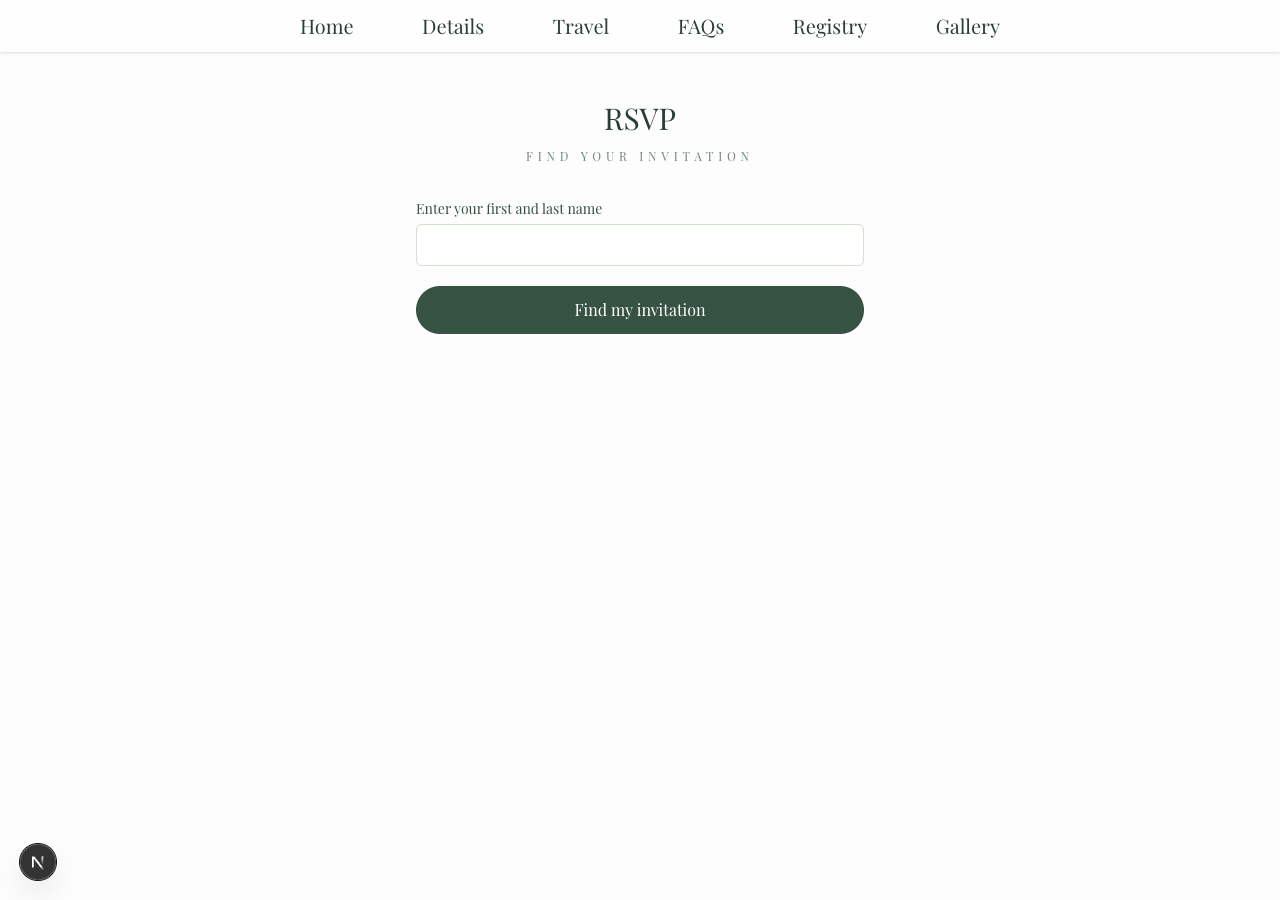
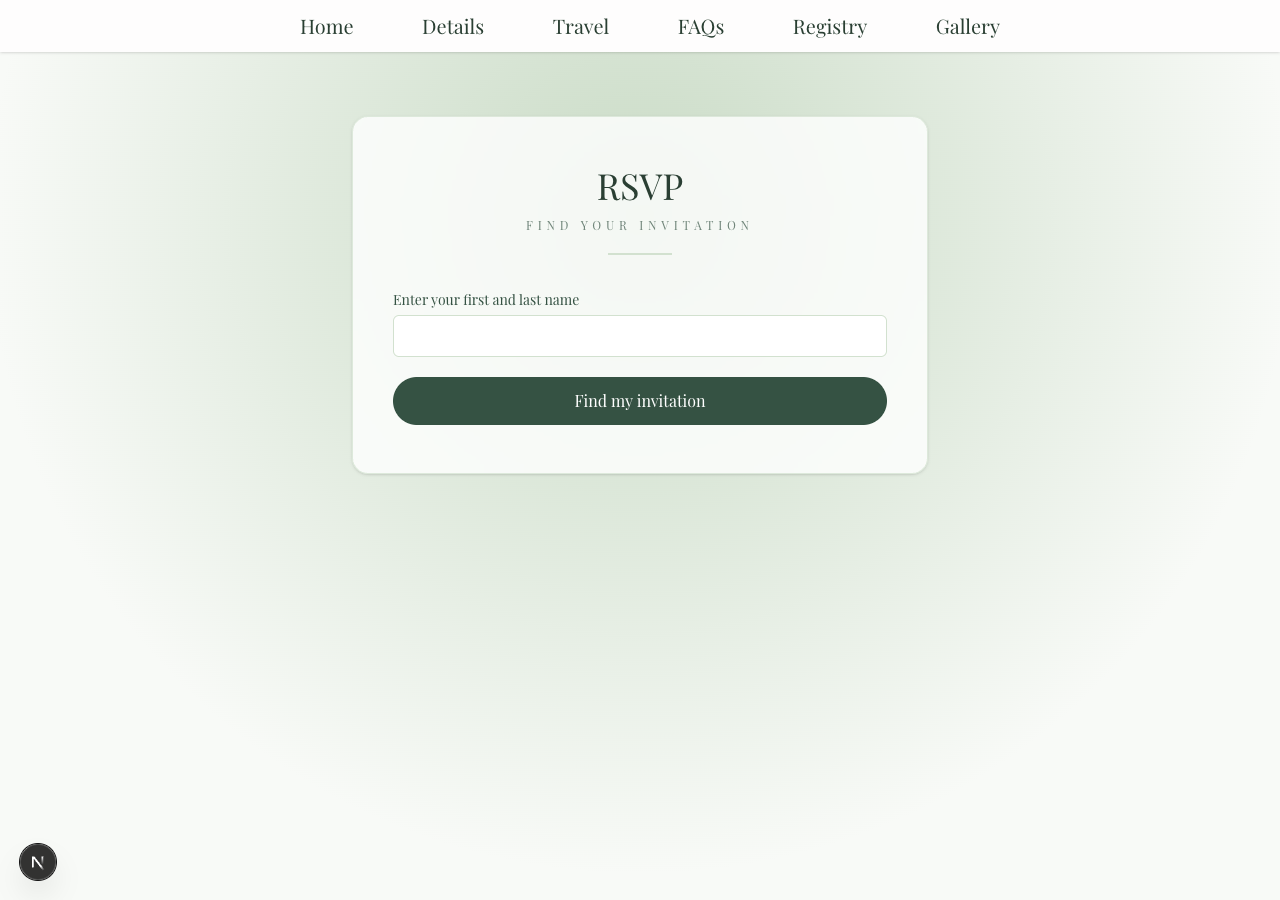
feat(rsvp): align the wizard with the site's visual language
The wizard rendered as a bare form on near-white while every other page
frames its content: the home page pairs a radial sage glow with rules and
a card-like rhythm. /rsvp used none of it, so it read as unfinished.

- Wrap the wizard in the existing GradientGlowDivider and lift it onto a
  white card with a sage hairline, so it sits on the page rather than
  dissolving into it.
- Extract StepHeading (title + eyebrow + short sage rule), replacing five
  hand-rolled and slightly inconsistent header blocks.
- Give the status toggle's focus ring an offset. It was ring-sage-700 on
  bg-sage-700 — applied, provably focus-visible, and invisible on the
  selected pill.

Copy: "Which one is you?" -> "Which group is yours?".

No new colors, fonts, or dependencies; no step numbers or progress bar,
which would advertise a sequence the one-page editor does not have.

Changed region(s): [[0.1875, 0.0311, 0.8125, 0.7156], [0.3125, 0.3111, 0.6875, 0.3733], [0.3125, 0.1867, 0.5312, 0.2489]]

diff --git a/src/components/rsvp/RsvpConfirmation.tsx b/src/components/rsvp/RsvpConfirmation.tsx
@@ -1,4 +1,5 @@
 import Link from 'next/link';
+import { StepHeading } from './StepHeading';
 import { GUEST_SOURCE, RSVP_STATUS } from '@/lib/enums';
 import type { PartyDetail, PartyDetailGuest } from '@/lib/rsvp/types';
 
@@ -42,9 +43,9 @@ export const RsvpConfirmation: React.FC<RsvpConfirmationProps> = ({ party, onEdi
   const hasAddedGuests = party.guests.some((guest) => guest.source === GUEST_SOURCE.guestAdded);
 
   return (
-    <section className='w-full max-w-md'>
-      <h1 className='text-center text-3xl text-sage-800'>Thank you!</h1>
-      <p className='mt-3 text-center text-sm text-sage-700'>
+    <section className='w-full'>
+      <StepHeading title='Thank you!' eyebrow='RSVP received' />
+      <p className='mt-5 text-center text-sm text-sage-700'>
         We have your RSVP for <span className='text-sage-800'>{party.displayName}</span>. You can
         come back and change it any time before the deadline.
       </p>

diff --git a/src/app/rsvp/page.tsx b/src/app/rsvp/page.tsx
@@ -1,14 +1,19 @@
 import { Header } from '@/components/Header';
+import { GradientGlowDivider } from '@/components/dividers';
 import { RsvpWizard } from '@/components/rsvp/RsvpWizard';
 
 const RsvpPage = () => {
   return (
-    <div className='min-h-screen flex flex-col bg-sage-50/30'>
+    <div className='min-h-screen flex flex-col bg-sage-50/70'>
       <Header />
 
-      <main className='flex-1 flex flex-col items-center px-6 py-12'>
-        <RsvpWizard />
-      </main>
+      <GradientGlowDivider className='flex-1 flex flex-col' glowPosition='top'>
+        <main className='flex-1 flex flex-col items-center px-5 py-12 sm:px-6 sm:py-16'>
+          <div className='w-full max-w-xl rounded-2xl border border-sage-200/70 bg-white/80 px-6 py-10 shadow-sm backdrop-blur-sm sm:px-10 sm:py-12'>
+            <RsvpWizard />
+          </div>
+        </main>
+      </GradientGlowDivider>
     </div>
   );
 };

diff --git a/src/components/rsvp/PartyForm.tsx b/src/components/rsvp/PartyForm.tsx
@@ -3,6 +3,7 @@
 import { useState } from 'react';
 import { AddedGuestFields } from './AddedGuestFields';
 import { GuestRsvpFields } from './GuestRsvpFields';
+import { StepHeading } from './StepHeading';
 import { buildSubmitBody, emptyNewGuestDraft, initialGuestDrafts } from '@/lib/rsvp/draft';
 import type { GuestDraft, NewGuestDraft, PartyDetail, SubmitRsvpBody } from '@/lib/rsvp/types';
 
@@ -55,11 +56,8 @@ export const PartyForm: React.FC<PartyFormProps> = ({
   };
 
   return (
-    <form className='w-full max-w-lg' onSubmit={handleSubmit}>
-      <h1 className='text-center text-3xl text-sage-800'>{party.displayName}</h1>
-      <p className='mt-3 text-center text-xs uppercase tracking-[0.4em] text-sage-700/70'>
-        Your RSVP
-      </p>
+    <form className='w-full' onSubmit={handleSubmit}>
+      <StepHeading title={party.displayName} eyebrow='Your RSVP' />
 
       {notice && (
         <p

diff --git a/src/components/rsvp/PartyPicker.tsx b/src/components/rsvp/PartyPicker.tsx
@@ -1,3 +1,4 @@
+import { StepHeading } from './StepHeading';
 import type { PartySearchResult } from '@/lib/rsvp/types';
 
 interface PartyPickerProps {
@@ -7,10 +8,10 @@ interface PartyPickerProps {
 }
 
 export const PartyPicker: React.FC<PartyPickerProps> = ({ matches, onSelect, onStartOver }) => (
-  <section className='w-full max-w-md'>
-    <h1 className='text-center text-3xl text-sage-800'>Which one is you?</h1>
-    <p className='mt-3 text-center text-sm text-sage-700'>
-      We found more than one match. Pick the group you belong to.
+  <section className='w-full'>
+    <StepHeading title='Which group is yours?' eyebrow='More than one match' />
+    <p className='mt-5 text-center text-sm text-sage-700'>
+      Your name is on more than one invitation. Pick the group you belong to.
     </p>
 
     <ul className='mt-8 space-y-3'>

diff --git a/src/components/rsvp/PartyLookup.tsx b/src/components/rsvp/PartyLookup.tsx
@@ -1,6 +1,7 @@
 'use client';
 
 import { useState } from 'react';
+import { StepHeading } from './StepHeading';
 
 interface PartyLookupProps {
   isSearching: boolean;
@@ -23,11 +24,8 @@ export const PartyLookup: React.FC<PartyLookupProps> = ({
   };
 
   return (
-    <section className='w-full max-w-md'>
-      <h1 className='text-center text-3xl text-sage-800'>RSVP</h1>
-      <p className='mt-3 text-center text-xs uppercase tracking-[0.4em] text-sage-700/70'>
-        Find your invitation
-      </p>
+    <section className='w-full'>
+      <StepHeading title='RSVP' eyebrow='Find your invitation' />
 
       <form className='mt-8' onSubmit={handleSubmit}>
         <label className='text-sm text-sage-700' htmlFor='party-search'>

diff --git a/src/components/rsvp/RsvpStatusToggle.tsx b/src/components/rsvp/RsvpStatusToggle.tsx
@@ -25,7 +25,7 @@ export const RsvpStatusToggle: React.FC<RsvpStatusToggleProps> = ({
       {OPTIONS.map(({ status, label }) => (
         <label
           key={status}
-          className={`flex-1 cursor-pointer rounded-full border px-4 py-2 text-center text-sm transition-colors has-[:focus-visible]:ring-2 has-[:focus-visible]:ring-sage-700 ${
+          className={`flex-1 cursor-pointer rounded-full border px-4 py-2 text-center text-sm transition-colors has-[:focus-visible]:ring-2 has-[:focus-visible]:ring-sage-700 has-[:focus-visible]:ring-offset-2 ${
             value === status
               ? 'border-sage-700 bg-sage-700 text-white'
               : 'border-sage-200 bg-white text-sage-700 hover:border-sage-700'

diff --git a/src/components/rsvp/RsvpClosed.tsx b/src/components/rsvp/RsvpClosed.tsx
@@ -1,4 +1,5 @@
 import Link from 'next/link';
+import { StepHeading } from './StepHeading';
 
 interface RsvpClosedProps {
   deadline: string | null;
@@ -31,8 +32,8 @@ export const RsvpClosed: React.FC<RsvpClosedProps> = ({ deadline }) => {
   const closedOn = formatDeadline(deadline);
 
   return (
-    <section className='w-full max-w-md text-center'>
-      <h1 className='text-3xl text-sage-800'>RSVPs are closed</h1>
+    <section className='w-full text-center'>
+      <StepHeading title='RSVPs are closed' eyebrow='Guest list closed' />
 
       <p className='mt-6 text-sage-700'>
         {closedOn

diff --git a/src/components/rsvp/StepHeading.tsx b/src/components/rsvp/StepHeading.tsx
@@ -1,0 +1,12 @@
+interface StepHeadingProps {
+  title: string;
+  eyebrow: string;
+}
+
+export const StepHeading: React.FC<StepHeadingProps> = ({ title, eyebrow }) => (
+  <div className='text-center'>
+    <h1 className='text-3xl text-sage-800 sm:text-4xl'>{title}</h1>
+    <p className='mt-3 text-xs uppercase tracking-[0.4em] text-sage-700/70'>{eyebrow}</p>
+    <div aria-hidden='true' className='mx-auto mt-5 h-0.5 w-16 bg-sage-200' />
+  </div>
+);
